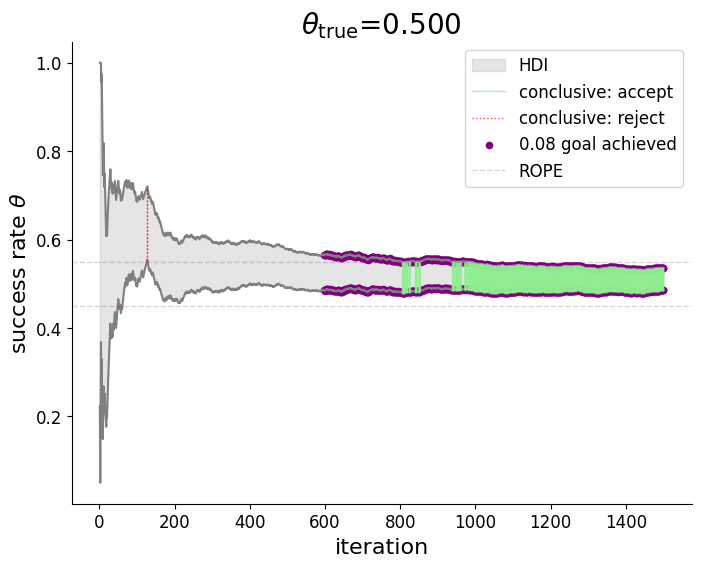
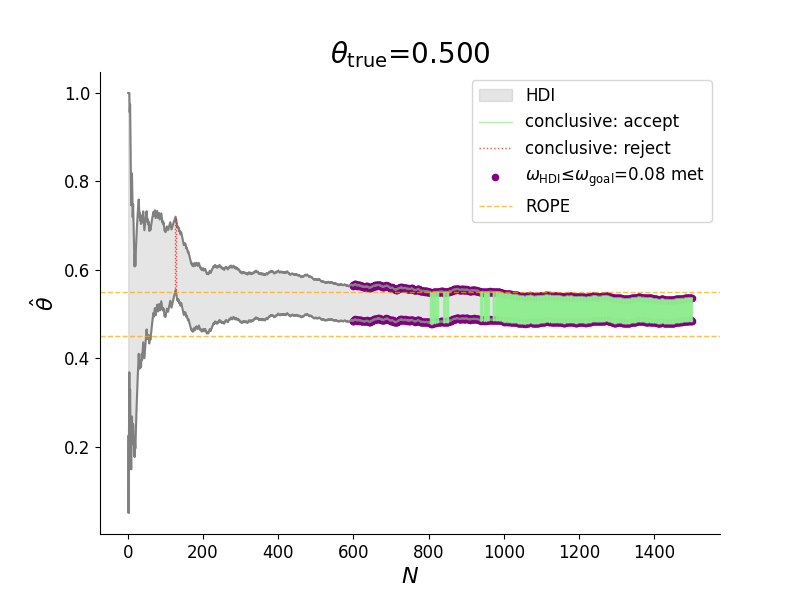
further revisions for results trends subsection regarding Observed success rate figure

diff --git a/latex/precision_goal_results.tex b/latex/precision_goal_results.tex
@@ -258,28 +258,23 @@ $\theta_{\rm true}\approx 0.60$.
 
 That HDI+ROPE reaches 100\% accuracy at $\theta_{\rm true}=0.58$ while simultaneously
 producing biased $\hat{\theta}$ estimates motivates a closer look at the observed
-success rate $\hat{\theta}$ statistics. Figure~\ref{fig:success_by_truth_conclusive} shows, for conclusive
-experiments, the IQR of $\hat{\theta}(N_{\rm stop})$ (left panel) and the median bias
-$\hat{\theta}_{\rm 50\%}-\theta_{\rm true}$ (right panel).\footnote{We find similar
-trends for the mean, but omit it to reduce clutter.}
+success rate statistics. Figure~\ref{fig:success_by_truth_conclusive} shows, for
+conclusive experiments, the IQR of $\hat{\theta}(N_{\rm stop})$ (left panel) and the
+median bias $\hat{\theta}_{\rm 50\%}-\theta_{\rm true}$ (right panel).\footnote{We find
+similar trends for the mean, but omit it to reduce clutter.}
 
-Before examining per-algorithm bias, it is worth recalling what an accept or reject
-decision means in this framework. Following \cite{kruschke2018}, accepting
-$\theta_{\rm null}$ for practical purposes does not mean that $\theta_{\rm null}$ is
-itself the most credible value of the posterior; it means merely that \textit{all} the
-most credible values---the entire HDI---are practically equivalent to $\theta_{\rm null}$.
-The relevant quantity for an accept/reject decision is therefore the posterior HDI, not
-the point estimate $\hat{\theta}$. A small bias in $\hat{\theta}$ does not invalidate
-the decision so long as the HDI falls cleanly within the ROPE.
+As discussed in Section~\ref{sec:accept_reject_meaning}, accept/reject decisions rest on
+the HDI's position relative to the ROPE, not on $\hat{\theta}$; a bias in $\hat{\theta}$
+does not invalidate the decision so long as the HDI falls cleanly within (or outside)
+the ROPE.
 
-With this in mind, the $\hat{\theta}$ bias of HDI+ROPE is more telling as a symptom
-of its lack of a precision requirement than as a decision-quality metric. At
-$\theta_{\rm true}=0.5$, all three algorithms show near-zero bias, as expected from
-the symmetry of the fair coin case. Once $\theta_{\rm true}$ deviates from $0.5$,
-HDI+ROPE's bias grows markedly: its median bias approaches the ROPE half-width at
-${\rm ROPE}_{\rm max}$, with the upper IQR extending substantially further.
-This happens because HDI+ROPE can stop on skewed samples before sufficient data
-have accumulated to constrain the posterior.
+HDI+ROPE's $\hat{\theta}$ bias is therefore more telling as a symptom of its lack of a
+precision requirement than as a decision-quality metric. At $\theta_{\rm true}=0.5$,
+all three algorithms show near-zero bias, as expected from the symmetry of the fair coin
+case. Once $\theta_{\rm true}$ deviates from $0.5$, HDI+ROPE's bias grows markedly: its
+median bias approaches ${\rm ROPE}_{\rm max}$, with the upper
+IQR extending substantially further---because HDI+ROPE can stop on skewed samples before
+sufficient data have accumulated to constrain the posterior.
 
 The precision-based methods exhibit substantially smaller $\hat{\theta}$ bias, well
 within the ROPE width across all $\theta_{\rm true}$ values, as a natural consequence
@@ -288,7 +283,7 @@ shows the highest bias and ePitG the lowest.\footnote{For inconclusive experimen
 where PitG contributes far more experiments than ePitG or HDI+ROPE, PitG's
 $\hat{\theta}$ bias is slightly \textit{lower} than ePitG's, though this ordering
 reverses when compounding all experiments.} Compounding conclusive and inconclusive
-experiments, ePitG accuracy exceeds PitG's at every $\theta_{\rm true}$ value
+experiments, ePitG decision accuracy exceeds PitG's at every $\theta_{\rm true}$ value
 (cf.\ Figure~\ref{fig:conclusiveness_rates}, right panel).
 
 
@@ -311,12 +306,13 @@ would plan in advance knowing only $\theta_{\rm null}$.
   \caption{Observed success rate $\hat{\theta}(N_{\rm stop})$ at the stop iteration as a
   function of $\theta_{\rm true}$, for conclusive experiments only (subsets of $M=2{,}000$,
   $\theta_{\rm null}=0.5$, $\omega_{\rm goal}=0.08$).
-  All panels are color-coded by algorithm: red: HDI+ROPE; blue: PitG; green: ePitG.
-  Dotted horizontal lines mark the ROPE boundaries and the vertical dashed is ROPE$_{\rm max}$.
+  \textit{Colors}: red: HDI+ROPE; blue: PitG; green: ePitG.
+  \textit{Horizontal dotted lines}: ROPE boundaries.
+  \textit{Vertical dashed line}: ${\rm ROPE}_{\rm max}$.
   \textit{Left}: interquartile range $\hat{\theta}_{\rm 25\%}$--$\hat{\theta}_{\rm 75\%}$
-  of $\hat{\theta}(N_{\rm stop})$; the solid diagonal line is the parity line
-  $\hat{\theta}=\theta_{\rm true}$.
-  \textit{Right}: $\hat{\theta}_{\rm 50\%}-\theta_{\rm true}$.}
+  of $\hat{\theta}(N_{\rm stop})$.
+  \textit{Diagonal line}: parity line $\hat{\theta}=\theta_{\rm true}$.
+  \textit{Right}: median bias $\hat{\theta}_{\rm 50\%}-\theta_{\rm true}$.}
   \label{fig:success_by_truth_conclusive}
 \end{figure}
 
